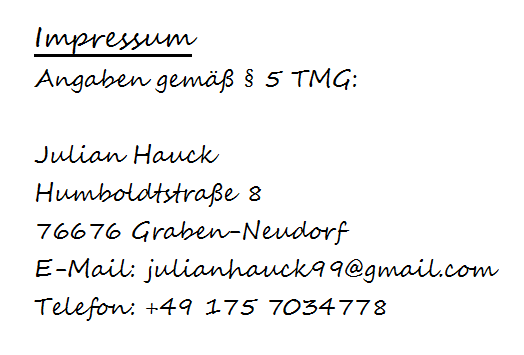
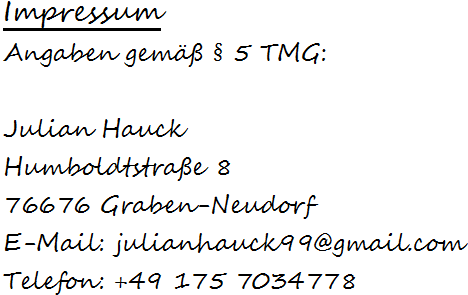
Optimierung von Kontakt/Impressum
Bug-Fix: Sidebar

diff --git a/gtr/index.html b/gtr/index.html
@@ -58,7 +58,8 @@
                                 <input type="checkbox" class="sC" id="sdu1" />
                                 <label for="sdu1" class="sl sdIh2"></label>
                                 <ul>
-                                    <li><a href="#Unterhaltung">Unterhaltung</a>
+                                    <li><a href="#JH">JH</a></li>
+                                    <li><a href="#StadtLandFluss">Unterhaltung</a>
                                         <input type="checkbox" class="sC" id="sd5" checked/>
                                         <label for="sd5" class="sl sdIh2"></label>
                                         <ul>
@@ -70,7 +71,7 @@
                                             <li class="noLine"><a href="#Reaktion">Reaktion</a></li>
                                         </ul>
                                     </li>
-                                    <li class="noLine"><a href="#Kalkulation">Kalkulation</a>
+                                    <li class="noLine"><a href="#Kopfrechentrainer">Kalkulation</a>
                                         <input type="checkbox" class="sC" id="sd6" checked/>
                                         <label for="sd6" class="sl sdIh2"></label>
                                         <ul>
@@ -124,7 +125,7 @@
             </ul>
         </div>
         <div class="program">
-            <h3 id="StadtLandFluss" id="Unterhaltung">Stadt-Land-Fluss</h3>
+            <h3 id="StadtLandFluss">Stadt-Land-Fluss</h3>
             <p>Sicherlich ist dir dieser Klassiker unter den Papierspielen wohl schon bekannt. Allerdings musst du mit dieser digitalen Version nie mehr Block und Stift zur Hand nehmen, sondern kannst sofort loslegen. Das besondere an dieser Ausgabe ist außerdem, dass Antworten immer von der schnellsten Person gebuzzert werden müssen, sodass der Spielverlauf erst richtig in Schwung gerät.</p>
             <ul class="Link">
                 <li><a class="rot" href="https://julian-hauck.github.io/program/SLF2.8xp">SLF2</a></li>
@@ -186,7 +187,7 @@
             </ul>
         </div>
         <div class="program">
-            <h3 id="Kopfrechentrainer" id="Kalkulation">Kopfrechentrainer</h3>
+            <h3 id="Kopfrechentrainer">Kopfrechentrainer</h3>
             <p>Durch den Taschenrechner verlernt man das Kopfrechen? - Nein, diese kleine Anwendung beweist genau das Gegenteil! Durch umfangreiche Einstellungsmöglichkeiten kannst du mit dem GTR gezielt deine mathematischen Fähigkeiten trainieren. :-)</p>
             <ul class="Link">
                 <li><a class="rot" href="https://julian-hauck.github.io/program/KRT.8xp">KRT</a></li>

diff --git a/kontakt/index.html b/kontakt/index.html
@@ -42,11 +42,13 @@
     <img class="Logon" src="https://julian-hauck.github.io/images/Seehund_Logo.svg" />
     <div class="content">
     <h1>Kontakt</h1>
-        <p>Bei eventuellen Rückfragen bin ich unter folgender E-Mail-Adresse für dich erreichbar. Auch über Anregungen, Inspirationen oder sonstiges Feedback freue ich mich jederzeit.<br>(Bitte nicht über die eigenartige Schrift wundern, die dazu dient, dass meine Adresse nicht elektronisch erfasst werden kann.)<br><img src="https://julian-hauck.github.io/images/mail.PNG"> </p></div>
+        <p>Bei eventuellen Rückfragen bin ich unter folgender E-Mail-Adresse für dich erreichbar. Auch über Anregungen, Inspirationen oder sonstiges Feedback freue ich mich jederzeit.<br>(Bitte nicht über die eigenartige Schrift wundern, die dazu dient, dass meine Adresse nicht elektronisch erfasst werden kann.)</p>
+            <div class="protectedBox"><img src="https://julian-hauck.github.io/images/mail.PNG"></div>
+    </div>
     <footer class=".fo">
         <ul class="foot-ul">
             <li>designed by Julian Hauck</li>
-            <li>01.03.2017 - 05.03.2017</li>
+            <li>01.03.2017 - 14.04.2017</li>
             <a class="fa" href="https://julian-hauck.github.io/kontakt/index.html"><li class="foot-li">Kontakt</li></a>
             <a class="fa" href="https://julian-hauck.github.io/impressum/index.html"><li class="foot-li">Impressum</li></a>
             <li class="bi"> </li>

diff --git a/impressum/index.html b/impressum/index.html
@@ -41,7 +41,8 @@
     </nav>
     <img class="Logon" src="https://julian-hauck.github.io/images/Seehund_Logo.svg" />
     <div class="content">
-    <img src="https://julian-hauck.github.io/images/Impressum.PNG" alt="Tut mir leid, der Fehler wird in Kürze behoben.">
+    <div class="protectedBox">
+    <img src="https://julian-hauck.github.io/images/Impressum.PNG" alt="Tut mir leid, der Fehler wird in Kürze behoben."></div>
     </div>
     <footer class=".fo">
         <ul class="foot-ul">

diff --git a/CSS/main.css b/CSS/main.css
@@ -257,6 +257,16 @@ footer li {
     height: 180px;
 }
 
+.protectedBox{
+    padding:0px;
+    margin:0px;
+    width:100%;
+    overflow-x: auto;
+    border-color: rgb(123,123,123);
+    border-width: 1px;
+    border-style: solid;
+}
+
 @media screen and (max-width: 1070px) {
     .content {
         box-sizing: border-box;
